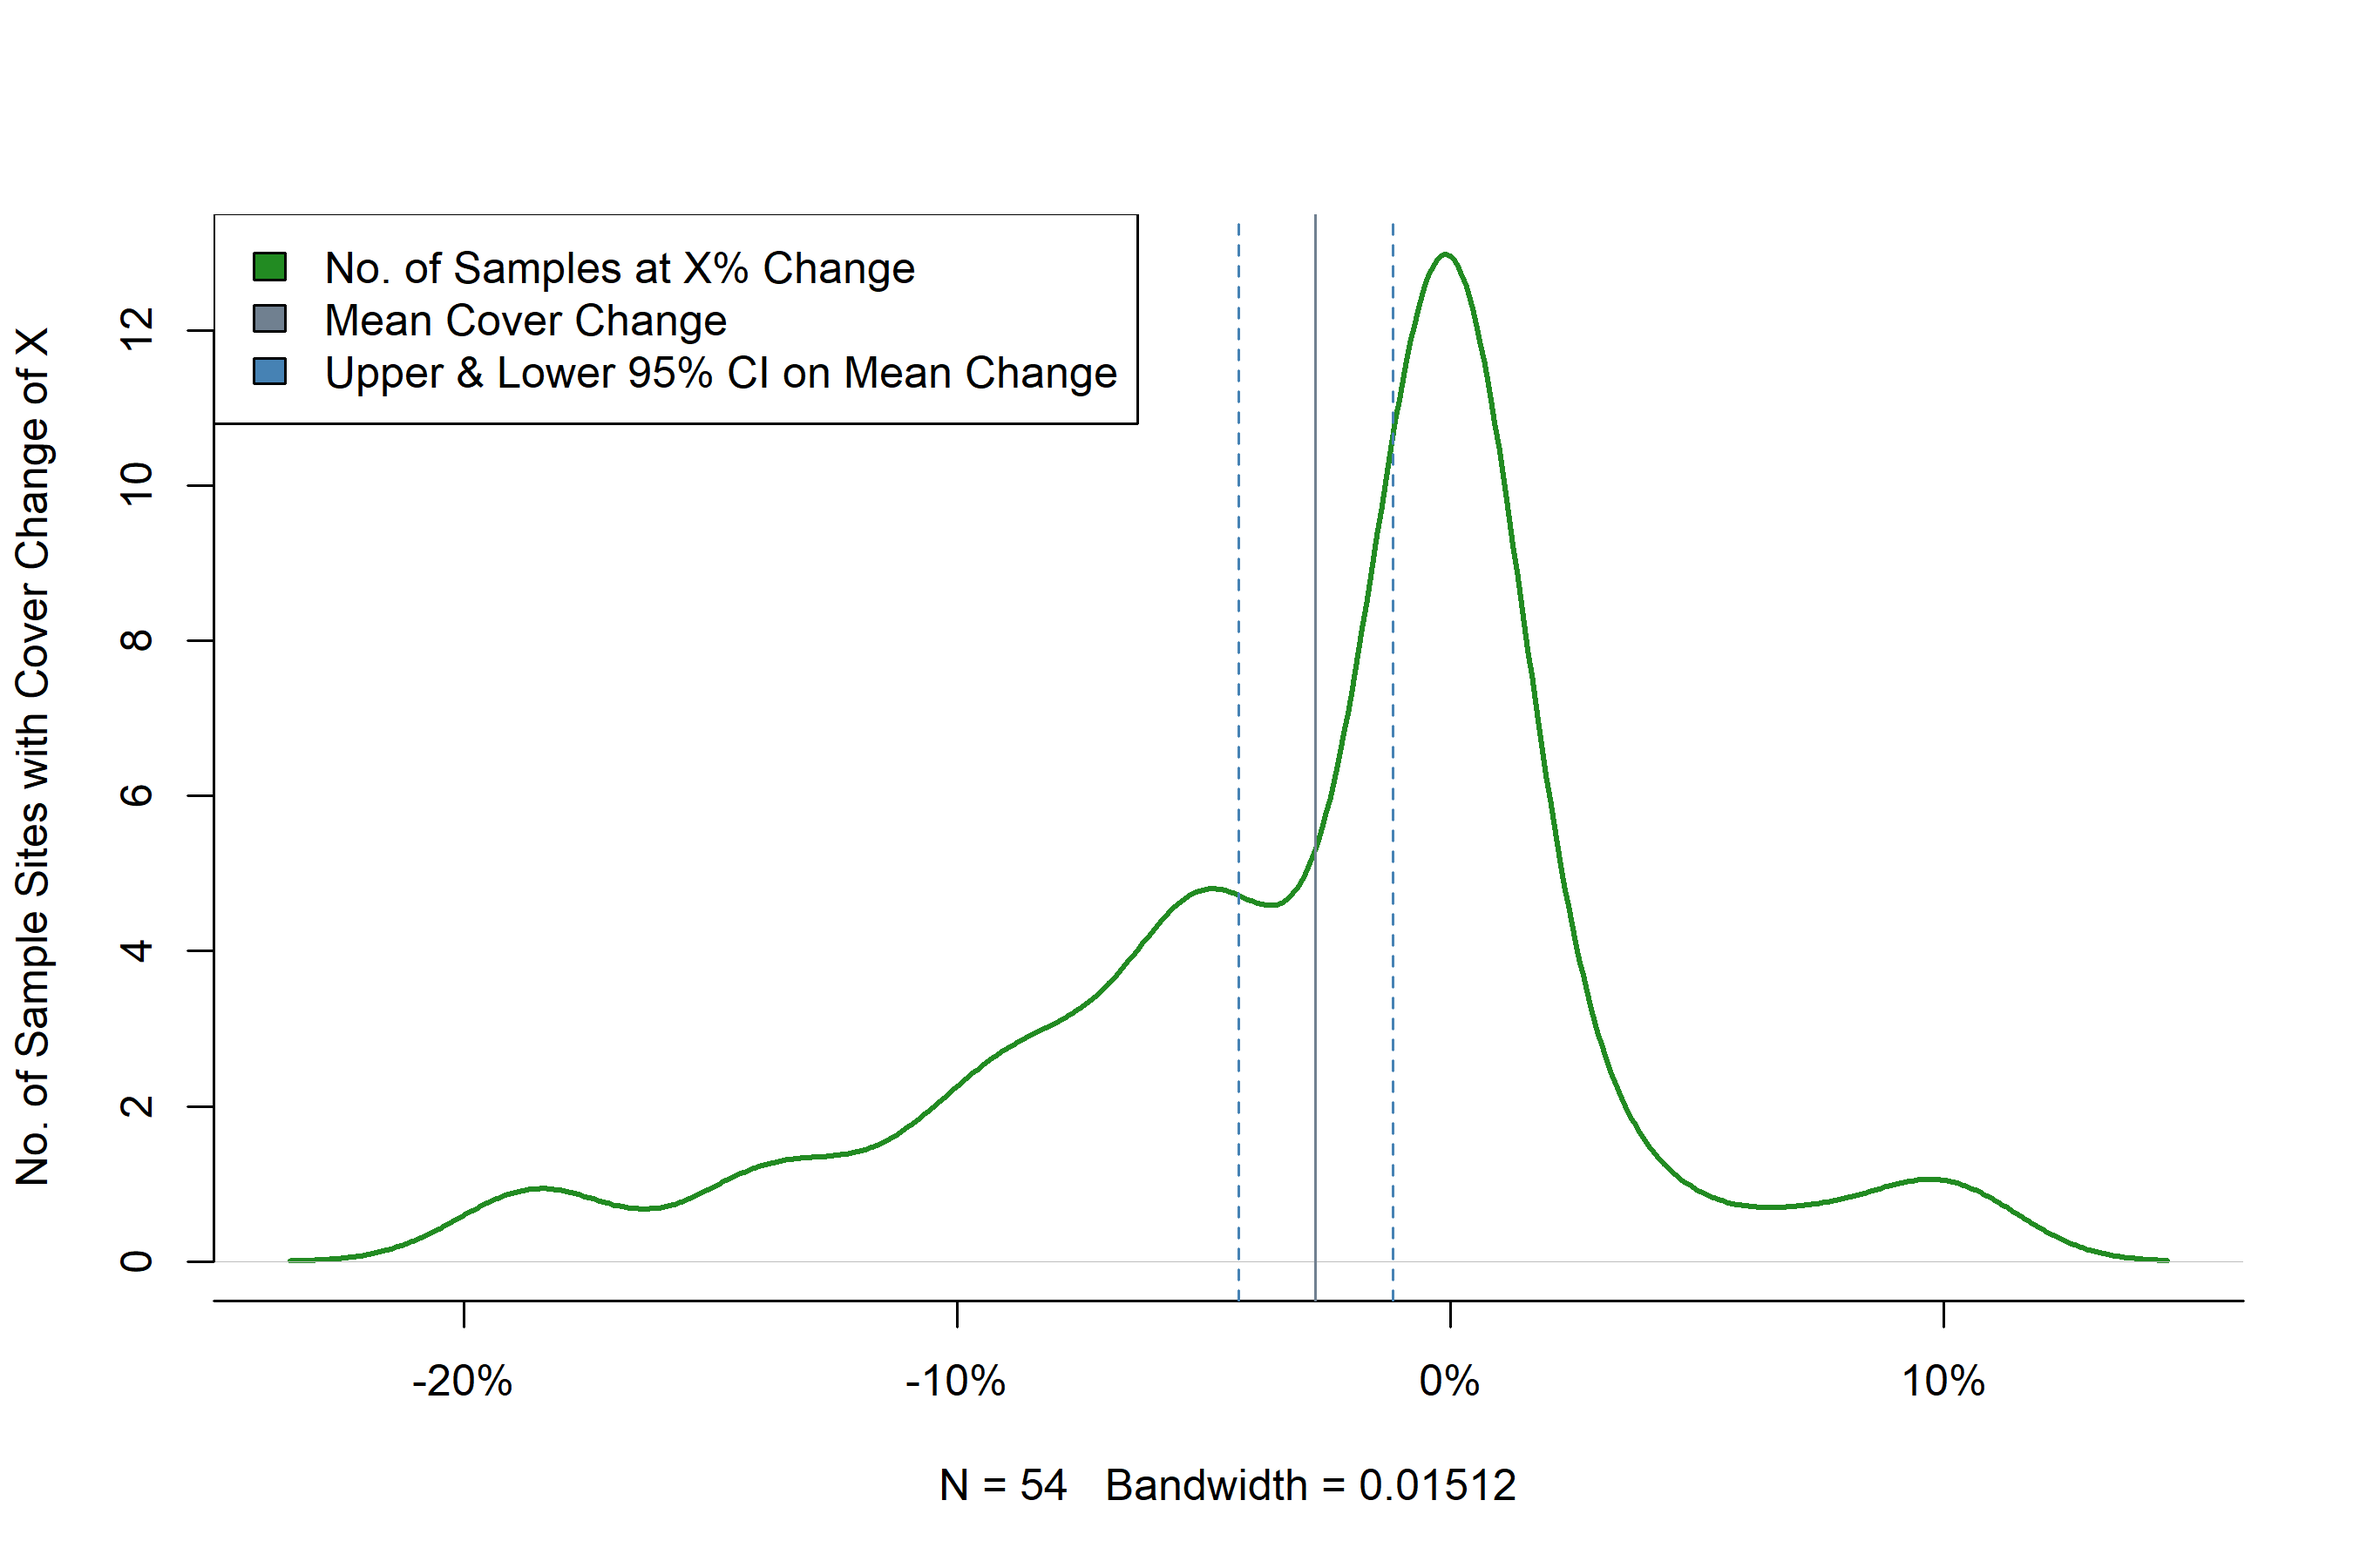
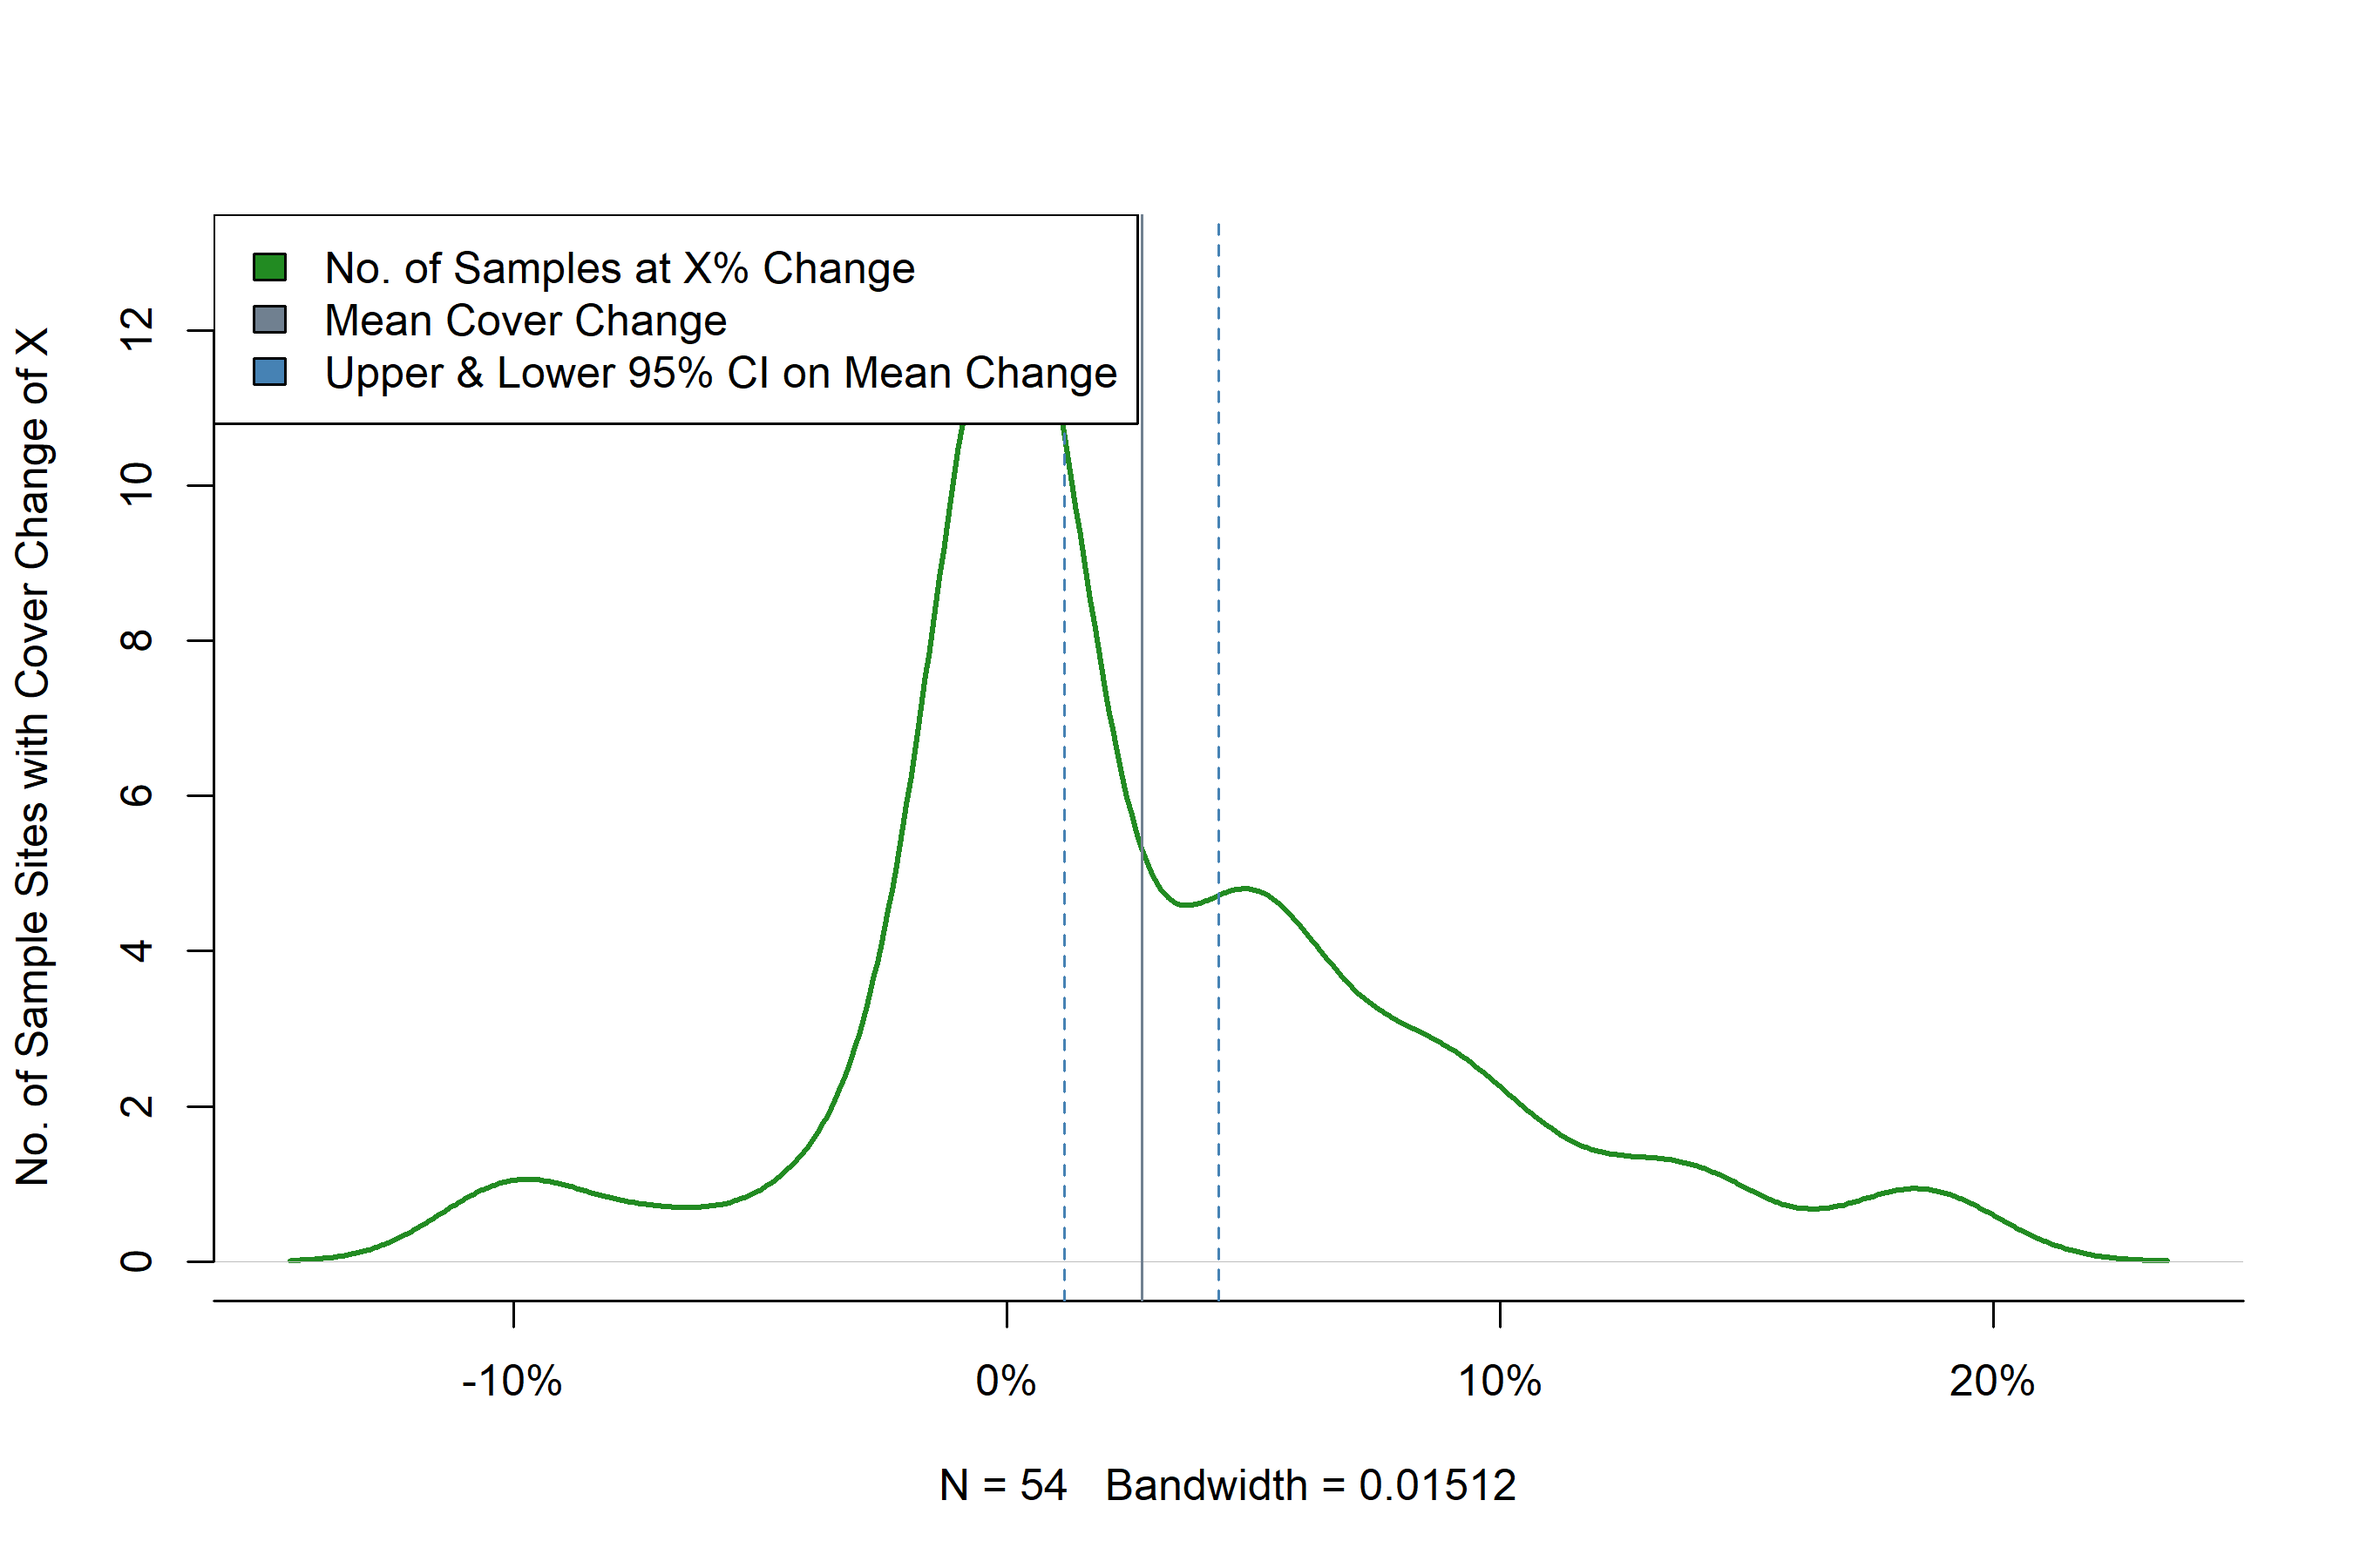
bug fixes to utils

diff --git a/docs/articles/riparian.html b/docs/articles/riparian.html
@@ -64,7 +64,7 @@
       <h1>riparian</h1>
                         <h4 class="author">Erik Rose</h4>
             
-            <h4 class="date">2019-04-18</h4>
+            <h4 class="date">2019-05-02</h4>
       
       
       <div class="hidden name"><code>riparian.Rmd</code></div>
@@ -239,9 +239,9 @@ sub[, .N, by =<span class="st"> </span>.(year, type)]
 <span class="kw"><a href="../reference/plot_change.html">plot_change</a></span>(samples2018[type <span class="op">!=</span><span class="st"> 'trib'</span>], <span class="dv">2016</span>, <span class="dv">2018</span>)
 <span class="co">#&gt;              mean         sd  n        upr         lwr</span>
 <span class="co">#&gt; [1,] -0.002962963 0.06778517 54 0.01511685 -0.02104277</span>
-<span class="kw"><a href="../reference/plot_change.html">plot_change</a></span>(samples2018, <span class="dv">2016</span>, <span class="dv">2009</span>)
-<span class="co">#&gt;             mean         sd  n         upr         lwr</span>
-<span class="co">#&gt; [1,] -0.02740741 0.05857378 54 -0.01178448 -0.04303034</span></code></pre></div>
+<span class="kw"><a href="../reference/plot_change.html">plot_change</a></span>(samples2018, <span class="dv">2009</span>, <span class="dv">2016</span>)
+<span class="co">#&gt;            mean         sd  n        upr        lwr</span>
+<span class="co">#&gt; [1,] 0.02740741 0.05857378 54 0.04303034 0.01178448</span></code></pre></div>
 </div>
 <div id="clean-permit-list" class="section level2">
 <h2 class="hasAnchor">
@@ -274,7 +274,221 @@ perms &lt;-<span class="st"> </span><span class="kw">fread</span>(<span class="s
                    <span class="dt">polys =</span> samples,
                    <span class="dt">lots =</span> prc_lots, 
                    <span class="dt">permits =</span> permits_13to18)
-<span class="co">#&gt; Loading required namespace: rgeos</span></code></pre></div>
+<span class="co">#&gt; Warning in raster::crop(polys, so[i, ]): non identical CRS</span>
+<span class="co">#&gt; Loading required namespace: rgeos</span>
+<span class="co">#&gt; Warning in raster::crop(polys, so[i, ]): non identical CRS</span>
+
+<span class="co">#&gt; Warning in raster::crop(polys, so[i, ]): non identical CRS</span>
+
+<span class="co">#&gt; Warning in raster::crop(polys, so[i, ]): non identical CRS</span>
+
+<span class="co">#&gt; Warning in raster::crop(polys, so[i, ]): non identical CRS</span>
+
+<span class="co">#&gt; Warning in raster::crop(polys, so[i, ]): non identical CRS</span>
+
+<span class="co">#&gt; Warning in raster::crop(polys, so[i, ]): non identical CRS</span>
+
+<span class="co">#&gt; Warning in raster::crop(polys, so[i, ]): non identical CRS</span>
+
+<span class="co">#&gt; Warning in raster::crop(polys, so[i, ]): non identical CRS</span>
+
+<span class="co">#&gt; Warning in raster::crop(polys, so[i, ]): non identical CRS</span>
+
+<span class="co">#&gt; Warning in raster::crop(polys, so[i, ]): non identical CRS</span>
+
+<span class="co">#&gt; Warning in raster::crop(polys, so[i, ]): non identical CRS</span>
+
+<span class="co">#&gt; Warning in raster::crop(polys, so[i, ]): non identical CRS</span>
+
+<span class="co">#&gt; Warning in raster::crop(polys, so[i, ]): non identical CRS</span>
+
+<span class="co">#&gt; Warning in raster::crop(polys, so[i, ]): non identical CRS</span>
+
+<span class="co">#&gt; Warning in raster::crop(polys, so[i, ]): non identical CRS</span>
+
+<span class="co">#&gt; Warning in raster::crop(polys, so[i, ]): non identical CRS</span>
+
+<span class="co">#&gt; Warning in raster::crop(polys, so[i, ]): non identical CRS</span>
+
+<span class="co">#&gt; Warning in raster::crop(polys, so[i, ]): non identical CRS</span>
+
+<span class="co">#&gt; Warning in raster::crop(polys, so[i, ]): non identical CRS</span>
+
+<span class="co">#&gt; Warning in raster::crop(polys, so[i, ]): non identical CRS</span>
+
+<span class="co">#&gt; Warning in raster::crop(polys, so[i, ]): non identical CRS</span>
+
+<span class="co">#&gt; Warning in raster::crop(polys, so[i, ]): non identical CRS</span>
+
+<span class="co">#&gt; Warning in raster::crop(polys, so[i, ]): non identical CRS</span>
+
+<span class="co">#&gt; Warning in raster::crop(polys, so[i, ]): non identical CRS</span>
+
+<span class="co">#&gt; Warning in raster::crop(polys, so[i, ]): non identical CRS</span>
+
+<span class="co">#&gt; Warning in raster::crop(polys, so[i, ]): non identical CRS</span>
+
+<span class="co">#&gt; Warning in raster::crop(polys, so[i, ]): non identical CRS</span>
+
+<span class="co">#&gt; Warning in raster::crop(polys, so[i, ]): non identical CRS</span>
+
+<span class="co">#&gt; Warning in raster::crop(polys, so[i, ]): non identical CRS</span>
+
+<span class="co">#&gt; Warning in raster::crop(polys, so[i, ]): non identical CRS</span>
+
+<span class="co">#&gt; Warning in raster::crop(polys, so[i, ]): non identical CRS</span>
+
+<span class="co">#&gt; Warning in raster::crop(polys, so[i, ]): non identical CRS</span>
+
+<span class="co">#&gt; Warning in raster::crop(polys, so[i, ]): non identical CRS</span>
+
+<span class="co">#&gt; Warning in raster::crop(polys, so[i, ]): non identical CRS</span>
+
+<span class="co">#&gt; Warning in raster::crop(polys, so[i, ]): non identical CRS</span>
+
+<span class="co">#&gt; Warning in raster::crop(polys, so[i, ]): non identical CRS</span>
+
+<span class="co">#&gt; Warning in raster::crop(polys, so[i, ]): non identical CRS</span>
+
+<span class="co">#&gt; Warning in raster::crop(polys, so[i, ]): non identical CRS</span>
+
+<span class="co">#&gt; Warning in raster::crop(polys, so[i, ]): non identical CRS</span>
+
+<span class="co">#&gt; Warning in raster::crop(polys, so[i, ]): non identical CRS</span>
+
+<span class="co">#&gt; Warning in raster::crop(polys, so[i, ]): non identical CRS</span>
+
+<span class="co">#&gt; Warning in raster::crop(polys, so[i, ]): non identical CRS</span>
+
+<span class="co">#&gt; Warning in raster::crop(polys, so[i, ]): non identical CRS</span>
+
+<span class="co">#&gt; Warning in raster::crop(polys, so[i, ]): non identical CRS</span>
+
+<span class="co">#&gt; Warning in raster::crop(polys, so[i, ]): non identical CRS</span>
+
+<span class="co">#&gt; Warning in raster::crop(polys, so[i, ]): non identical CRS</span>
+
+<span class="co">#&gt; Warning in raster::crop(polys, so[i, ]): non identical CRS</span>
+
+<span class="co">#&gt; Warning in raster::crop(polys, so[i, ]): non identical CRS</span>
+
+<span class="co">#&gt; Warning in raster::crop(polys, so[i, ]): non identical CRS</span>
+
+<span class="co">#&gt; Warning in raster::crop(polys, so[i, ]): non identical CRS</span>
+
+<span class="co">#&gt; Warning in raster::crop(polys, so[i, ]): non identical CRS</span>
+
+<span class="co">#&gt; Warning in raster::crop(polys, so[i, ]): non identical CRS</span>
+
+<span class="co">#&gt; Warning in raster::crop(polys, so[i, ]): non identical CRS</span>
+
+<span class="co">#&gt; Warning in raster::crop(polys, so[i, ]): non identical CRS</span>
+
+<span class="co">#&gt; Warning in raster::crop(polys, so[i, ]): non identical CRS</span>
+
+<span class="co">#&gt; Warning in raster::crop(polys, so[i, ]): non identical CRS</span>
+
+<span class="co">#&gt; Warning in raster::crop(polys, so[i, ]): non identical CRS</span>
+
+<span class="co">#&gt; Warning in raster::crop(polys, so[i, ]): non identical CRS</span>
+
+<span class="co">#&gt; Warning in raster::crop(polys, so[i, ]): non identical CRS</span>
+
+<span class="co">#&gt; Warning in raster::crop(polys, so[i, ]): non identical CRS</span>
+
+<span class="co">#&gt; Warning in raster::crop(polys, so[i, ]): non identical CRS</span>
+
+<span class="co">#&gt; Warning in raster::crop(polys, so[i, ]): non identical CRS</span>
+
+<span class="co">#&gt; Warning in raster::crop(polys, so[i, ]): non identical CRS</span>
+
+<span class="co">#&gt; Warning in raster::crop(polys, so[i, ]): non identical CRS</span>
+
+<span class="co">#&gt; Warning in raster::crop(polys, so[i, ]): non identical CRS</span>
+
+<span class="co">#&gt; Warning in raster::crop(polys, so[i, ]): non identical CRS</span>
+
+<span class="co">#&gt; Warning in raster::crop(polys, so[i, ]): non identical CRS</span>
+
+<span class="co">#&gt; Warning in raster::crop(polys, so[i, ]): non identical CRS</span>
+
+<span class="co">#&gt; Warning in raster::crop(polys, so[i, ]): non identical CRS</span>
+
+<span class="co">#&gt; Warning in raster::crop(polys, so[i, ]): non identical CRS</span>
+
+<span class="co">#&gt; Warning in raster::crop(polys, so[i, ]): non identical CRS</span>
+
+<span class="co">#&gt; Warning in raster::crop(polys, so[i, ]): non identical CRS</span>
+
+<span class="co">#&gt; Warning in raster::crop(polys, so[i, ]): non identical CRS</span>
+
+<span class="co">#&gt; Warning in raster::crop(polys, so[i, ]): non identical CRS</span>
+
+<span class="co">#&gt; Warning in raster::crop(polys, so[i, ]): non identical CRS</span>
+
+<span class="co">#&gt; Warning in raster::crop(polys, so[i, ]): non identical CRS</span>
+
+<span class="co">#&gt; Warning in raster::crop(polys, so[i, ]): non identical CRS</span>
+
+<span class="co">#&gt; Warning in raster::crop(polys, so[i, ]): non identical CRS</span>
+
+<span class="co">#&gt; Warning in raster::crop(polys, so[i, ]): non identical CRS</span>
+
+<span class="co">#&gt; Warning in raster::crop(polys, so[i, ]): non identical CRS</span>
+
+<span class="co">#&gt; Warning in raster::crop(polys, so[i, ]): non identical CRS</span>
+
+<span class="co">#&gt; Warning in raster::crop(polys, so[i, ]): non identical CRS</span>
+
+<span class="co">#&gt; Warning in raster::crop(polys, so[i, ]): non identical CRS</span>
+
+<span class="co">#&gt; Warning in raster::crop(polys, so[i, ]): non identical CRS</span>
+
+<span class="co">#&gt; Warning in raster::crop(polys, so[i, ]): non identical CRS</span>
+
+<span class="co">#&gt; Warning in raster::crop(polys, so[i, ]): non identical CRS</span>
+
+<span class="co">#&gt; Warning in raster::crop(polys, so[i, ]): non identical CRS</span>
+
+<span class="co">#&gt; Warning in raster::crop(polys, so[i, ]): non identical CRS</span>
+
+<span class="co">#&gt; Warning in raster::crop(polys, so[i, ]): non identical CRS</span>
+
+<span class="co">#&gt; Warning in raster::crop(polys, so[i, ]): non identical CRS</span>
+
+<span class="co">#&gt; Warning in raster::crop(polys, so[i, ]): non identical CRS</span>
+
+<span class="co">#&gt; Warning in raster::crop(polys, so[i, ]): non identical CRS</span>
+
+<span class="co">#&gt; Warning in raster::crop(polys, so[i, ]): non identical CRS</span>
+
+<span class="co">#&gt; Warning in raster::crop(polys, so[i, ]): non identical CRS</span>
+
+<span class="co">#&gt; Warning in raster::crop(polys, so[i, ]): non identical CRS</span>
+
+<span class="co">#&gt; Warning in raster::crop(polys, so[i, ]): non identical CRS</span>
+
+<span class="co">#&gt; Warning in raster::crop(polys, so[i, ]): non identical CRS</span>
+
+<span class="co">#&gt; Warning in raster::crop(polys, so[i, ]): non identical CRS</span>
+
+<span class="co">#&gt; Warning in raster::crop(polys, so[i, ]): non identical CRS</span>
+
+<span class="co">#&gt; Warning in raster::crop(polys, so[i, ]): non identical CRS</span>
+
+<span class="co">#&gt; Warning in raster::crop(polys, so[i, ]): non identical CRS</span>
+
+<span class="co">#&gt; Warning in raster::crop(polys, so[i, ]): non identical CRS</span>
+
+<span class="co">#&gt; Warning in raster::crop(polys, so[i, ]): non identical CRS</span>
+
+<span class="co">#&gt; Warning in raster::crop(polys, so[i, ]): non identical CRS</span>
+
+<span class="co">#&gt; Warning in raster::crop(polys, so[i, ]): non identical CRS</span>
+
+<span class="co">#&gt; Warning in raster::crop(polys, so[i, ]): non identical CRS</span>
+
+<span class="co">#&gt; Warning in raster::crop(polys, so[i, ]): non identical CRS</span></code></pre></div>
 </div>
   </div>
 
